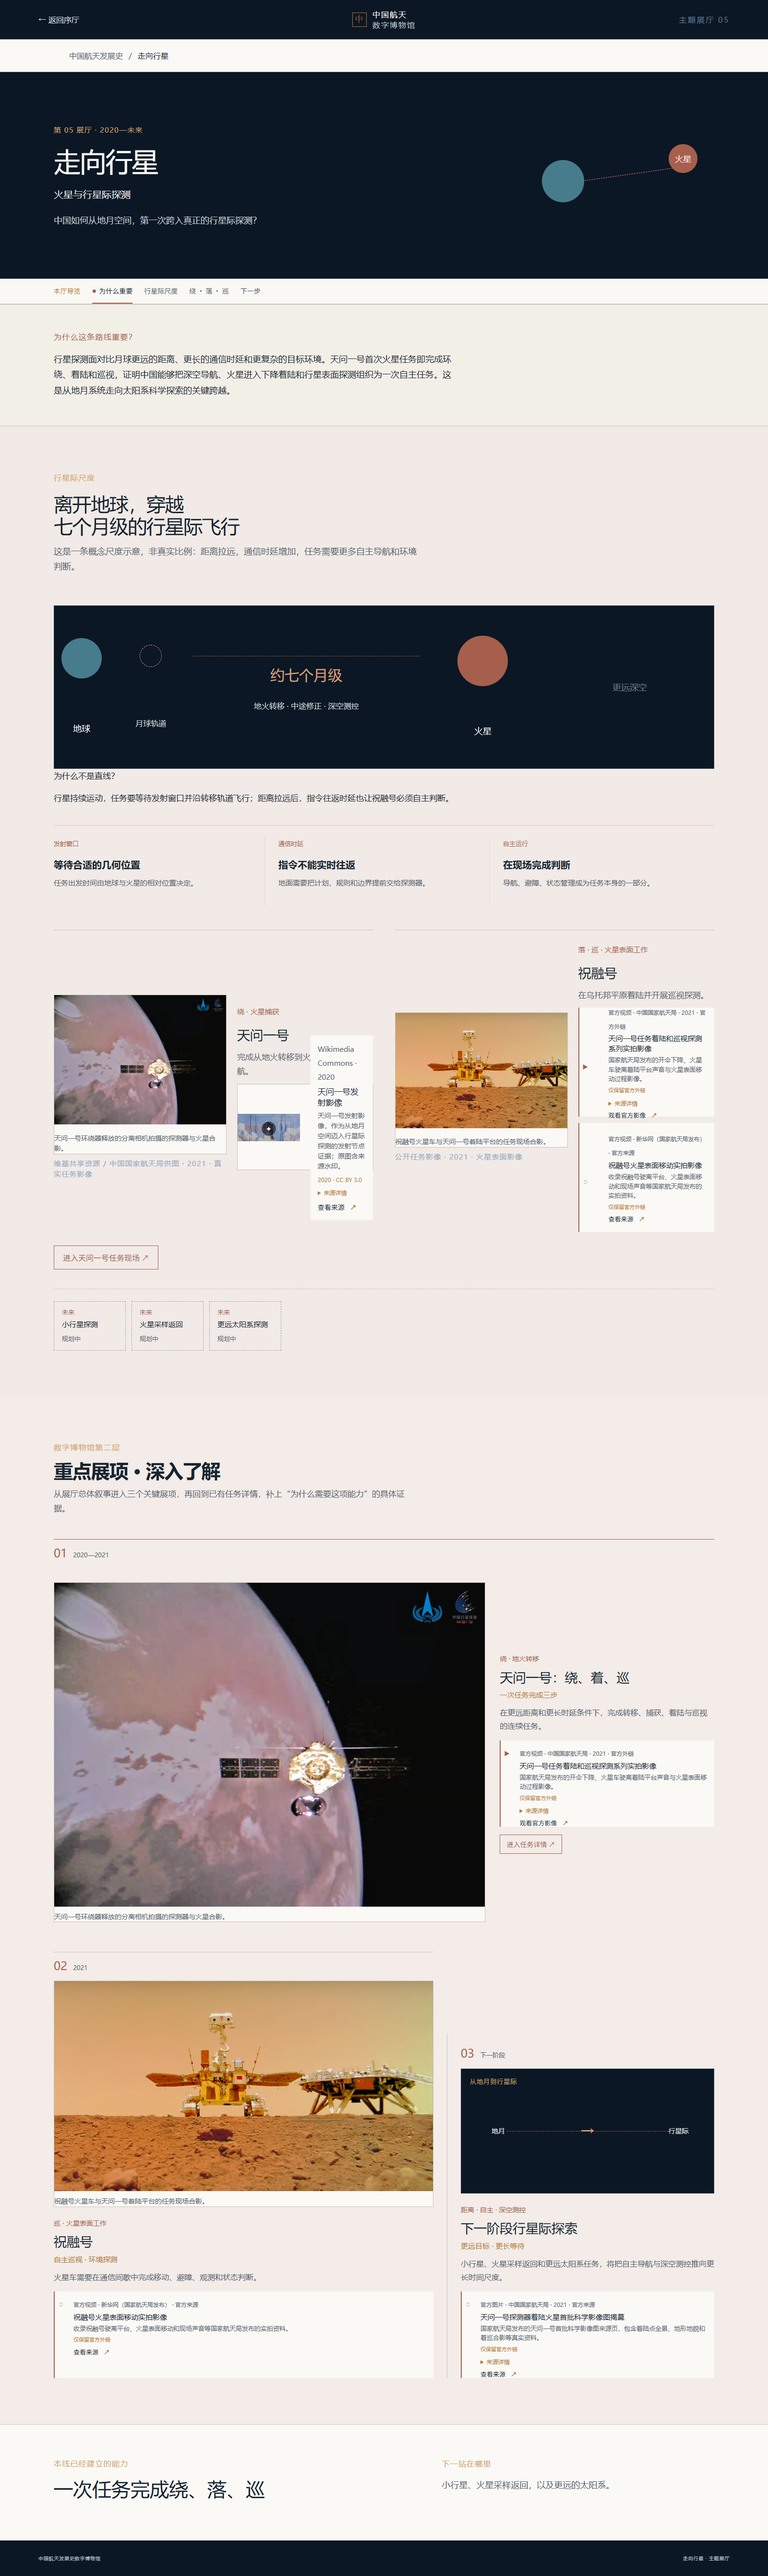
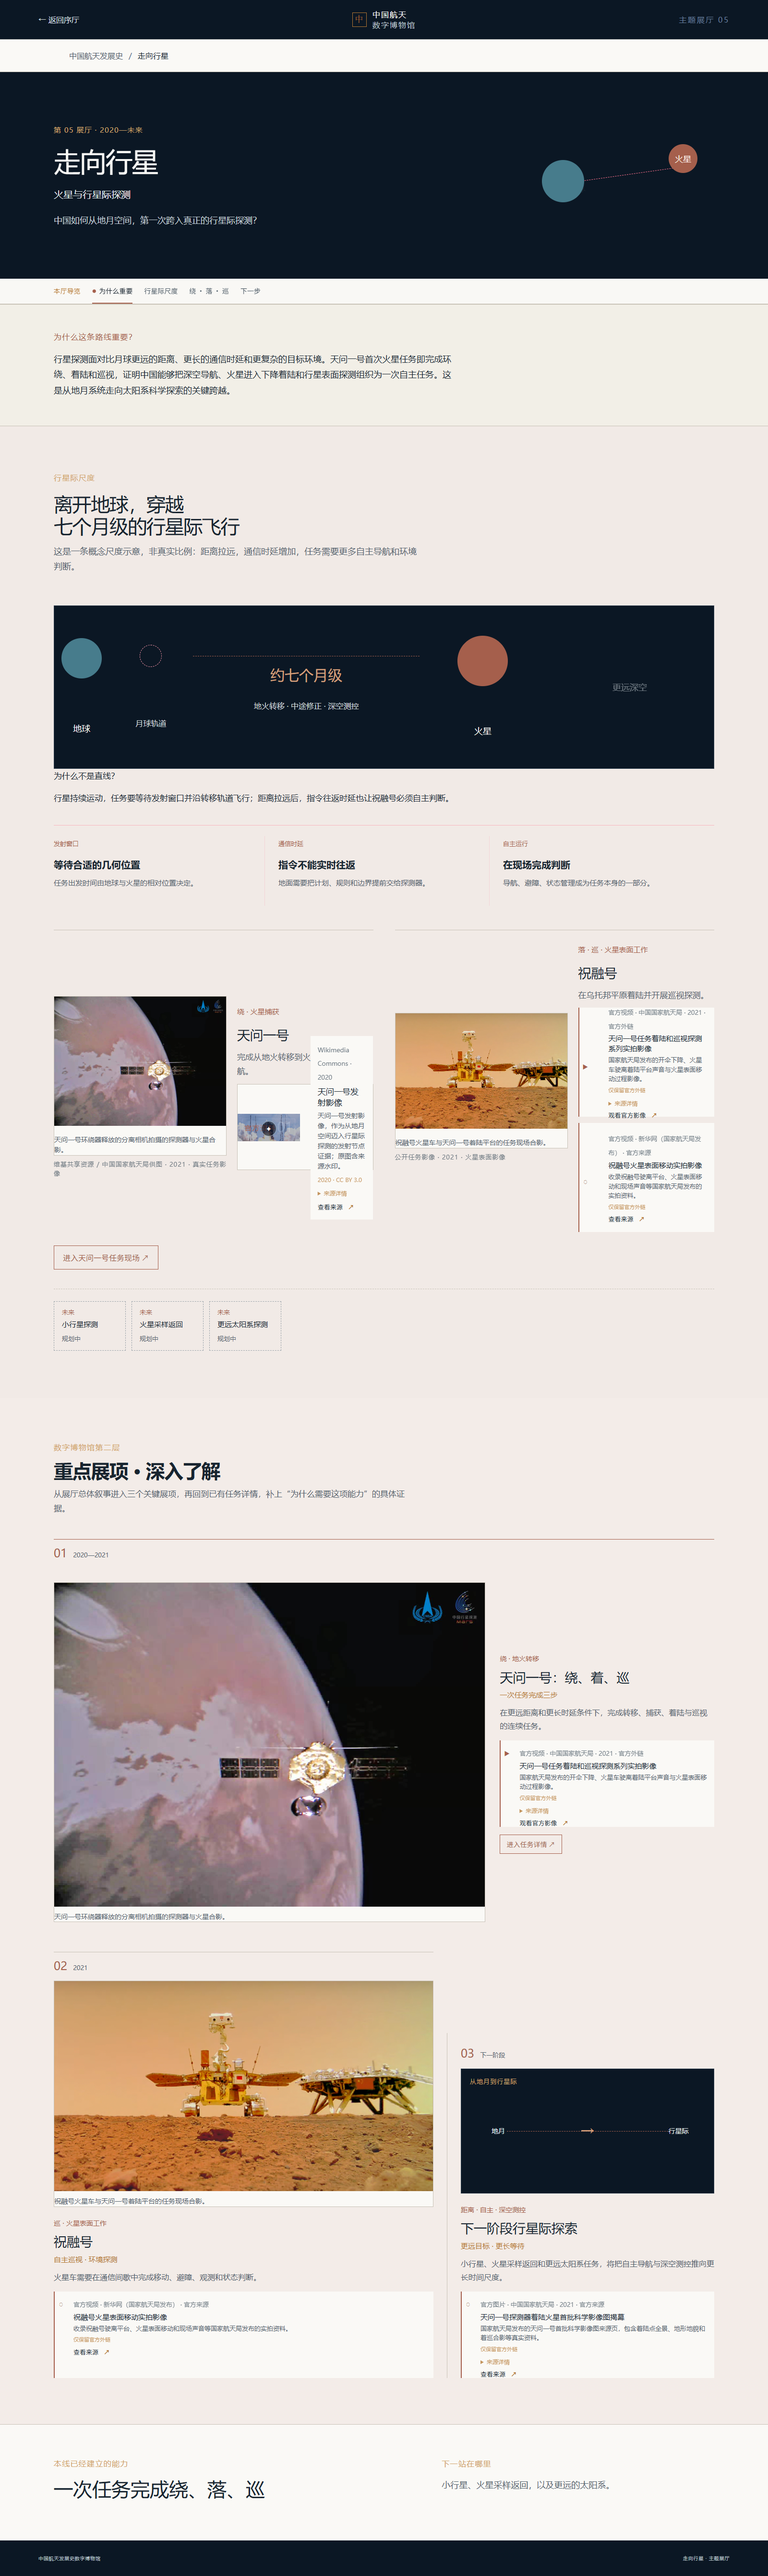
V5.0-RC3.2-PC：视觉与展陈终审

Changed region(s): [[0.5312, 0.405, 0.75, 0.4673], [0.0625, 0.405, 0.2812, 0.4673]]

diff --git a/src/e3.css b/src/e3.css
@@ -328,9 +328,9 @@ button:focus-visible, a:focus-visible { outline-color: var(--museum-bronze); }
 .deep-dive-item .asset-media figcaption { position: static; padding: 10px 0 0; background: none; color: var(--museum-ink-soft); font-size: 14px; line-height: 1.55; }
 .deep-dive-item .deep-dive-schematic { min-height: 240px; }
 .deep-dive-item .deep-dive-copy > p { max-width: 45em; }
-.story-page .asset-media figcaption { position: static; padding: 10px 0 0; background: none; color: var(--museum-ink-soft); font-size: 14px; line-height: 1.55; }
-.grand-story--launch .launch-support-copy h3 { color: var(--museum-ink); }
-.grand-story--launch .launch-support-copy p { color: var(--museum-ink-soft); }
+  .story-page .asset-media figcaption { position: static; padding: 10px 0 0; background: none; color: var(--museum-ink-soft); font-size: 14px; line-height: 1.55; }
+  .grand-story--launch .launch-support-copy h3 { color: var(--museum-ink); }
+  .grand-story--launch .launch-support-copy p { color: var(--museum-ink-soft); }
 
 /* 进入太空：小档案 → 中等能力 → 占据半幅的长征五号主展品。 */
 .deep-dive--layout-scale .deep-dive-items { grid-template-columns: repeat(12, minmax(0, 1fr)); gap: 34px 26px; align-items: start; }
@@ -532,4 +532,19 @@ button:focus-visible, a:focus-visible { outline-color: var(--museum-bronze); }
   .planetary-engineering-chain span { color: var(--hall-planetary); font: 13px 'DM Mono'; }
   .planetary-engineering-chain strong { display: block; margin-top: 13px; color: var(--museum-ink); font-size: 20px; font-weight: 600; }
   .planetary-engineering-chain p { margin: 9px 0 0; color: var(--museum-ink-soft); font-size: 15px; line-height: 1.7; }
+}
+
+/* V5.0-RC3.2-PC：视觉终审，降低来源噪声并收紧桌面阅读节奏。 */
+@media (min-width: 801px) {
+  .story-page .story-heading { margin-bottom: 4px; }
+  .story-page .story-media-meta { color: var(--museum-ink-soft); font-size: 13px; opacity: .82; }
+  .story-page .story-media .official-media-copy > span { font-size: 13px; opacity: .82; }
+  .story-page .story-media .official-media-status { opacity: .78; }
+  .story-page .story-media .official-media-details { opacity: .78; }
+  .story-page .story-media .official-media-copy a { font-size: 13px; }
+  .satellite-use-cases article, .launch-capability-chain article, .human-people-strip > div, .planetary-engineering-chain article { transition: background-color .2s ease, border-color .2s ease; }
+  .satellite-use-cases article:hover, .satellite-use-cases article:focus-within { background: rgba(255,255,255,.34); }
+  .launch-capability-chain article:hover, .human-people-strip > div:hover, .planetary-engineering-chain article:hover { background: rgba(255,255,255,.24); }
+  .satellite-use-cases article:focus-within, .launch-capability-chain article:focus-within, .human-people-strip > div:focus-within, .planetary-engineering-chain article:focus-within { outline: 2px solid var(--museum-bronze); outline-offset: 4px; }
+  .lunar-sample-note a { opacity: .8; }
 }

diff --git a/src/components/GrandHallStories/HumanSpaceflightStory.jsx b/src/components/GrandHallStories/HumanSpaceflightStory.jsx
@@ -13,7 +13,7 @@ export default function HumanSpaceflightStory({ hall, nodes, missions, onOpenMis
         <div className="story-hero-copy title-safe-area"><span className="section-kicker">第 {hall.index} 展厅 · {hall.period}</span><h1>{hall.name}</h1><p className="story-subtitle">{hall.subtitle}</p><p className="story-question">中国如何从无人验证，走到长期有人驻留？</p></div>
         <div className="story-hero-visual human-hero-visual" aria-label="飞船与空间站对接示意"><span>飞船</span><i>对接</i><b>空间站</b></div>
       </header>
-      <StoryTour items={[{ id: 'story-why', label: '为什么重要' }, { id: 'human-core', label: '三个人的阶段' }, { id: 'deep-dive', label: '重点展项' }, { id: 'story-next', label: '下一步' }]} />
+      <StoryTour items={[{ id: 'story-why', label: '为什么重要' }, { id: 'human-core', label: '三章路线' }, { id: 'deep-dive', label: '重点展项' }, { id: 'story-next', label: '下一步' }]} />
       <section className="story-why" id="story-why"><span className="section-kicker">为什么这条路线重要？</span><p>{hall.hallWhyItMatters}</p></section>
       <section className="grand-story grand-story--human" id="human-core">
         <div className="story-heading"><span className="section-kicker">载人航天三章</span><h2>从把人送上去，<br />到让人在轨道上工作</h2><p>载人航天的进步，体现在任务持续时间、空间活动复杂度和轨道生活能力的连续增加。</p></div>

diff --git a/docs/iterations/v5.0-rc3.2-pc.md b/docs/iterations/v5.0-rc3.2-pc.md
@@ -1,0 +1,26 @@
+# V5.0-RC3.2-PC 视觉与展陈终审记录
+
+## 本轮定位
+
+本轮承接本地 RC3.1 提交 `e65b5e0`，只维护 `1600×900` PC 桌面端。移动端、平板端和响应式重构冻结；本轮不修改启动器、不新增媒体、不创建正式 `v5.0` Tag。
+
+## 完成本轮
+
+- 复核首页入馆导言、时间线主次层级、技术底座关系和五厅新增信息块在长页面中的垂直节奏。
+- 将来源行、来源详情、授权状态和外链动作保持在低视觉权重；来源详情继续默认折叠，媒体展品保持为主体。
+- 修正新增卫星、运载、载人、探月、行星信息块在浅色正文中的文字对比度。
+- 为新增信息块增加克制的 hover/focus 状态；保留既有火箭参数、StoryTour、主线 SVG 键盘入口和外链 `noreferrer`。
+- 载人展厅导览从“三个人的阶段”修正为“三章路线”，让人物信息回到能力叙事的上下文中。
+
+## 验收
+
+- `npm.cmd run build`：通过；仅保留既有 SpaceScene 大 chunk 警告。
+- `npm.cmd run screenshots`：通过；只生成六张 `1600×900` PC fullPage PNG：`01-home.png` 至 `06-planetary.png`。
+- 六张截图已人工读取：没有发现新增遮挡、文字被浅底吞没、横向溢出、媒体比例异常或来源层级抢主体问题。
+- 使用本机 Microsoft Edge 复核首页、五个主题展厅和旧任务页；生产截图脚本同时检查图片、同源 404、运行时错误、console error、链接命名和桌面横向溢出。
+
+## 遗留
+
+- Three.js 场景 chunk 仍有既有构建警告，留待独立性能阶段。
+- 历史素材授权状态继续沿用来源登记；未扩大本地素材范围。
+

diff --git a/README.md b/README.md
@@ -4,7 +4,7 @@
 
 ## 当前版本
 
-V5.0-RC3.1-PC，已完成首页序厅与五厅策展深化；本轮只维护并验收 `1600×900` 桌面端，不修改移动端和平板端。
+V5.0-RC3.2-PC，已完成首页序厅、五厅策展深化与桌面视觉终审；本轮只维护并验收 `1600×900` 桌面端，不修改移动端和平板端。
 
 ## 在线参观
 
@@ -112,6 +112,8 @@ node_modules/           npm 依赖安装目录，不纳入 Git
 - [V5.0-RC2-PC 中文开发记录](docs/prompts/v5.0-rc2-pc.md)
 - [V5.0-RC3.1-PC 迭代记录](docs/iterations/v5.0-rc3.1-pc.md)
 - [V5.0-RC3.1-PC 中文开发记录](docs/prompts/v5.0-rc3.1-pc.md)
+- [V5.0-RC3.2-PC 迭代记录](docs/iterations/v5.0-rc3.2-pc.md)
+- [V5.0-RC3.2-PC 中文开发记录](docs/prompts/v5.0-rc3.2-pc.md)
 - [AI 辅助开发总日志](AI_DEVELOPMENT_LOG.md)
 - [更新日志](CHANGELOG.md)
 

diff --git a/AI_DEVELOPMENT_LOG.md b/AI_DEVELOPMENT_LOG.md
@@ -8,6 +8,12 @@
 - 使用中国载人航天工程官网、中国国家航天局和北斗官网资料复核新增事实；未下载新媒体、程序、依赖或远程脚本。
 - `npm.cmd run build`、`npm.cmd run screenshots` 和 Edge 路由/资源/交互 QA 通过；六张截图仍固定输出到 `docs/screenshots/review/latest/`，移动端冻结。
 
+## V5.0-RC3.2-PC
+
+- 在 RC3.1 内容深化后进行桌面视觉终审，只调整字体、间距、信息对比度、来源权重和轻量 focus/hover 状态。
+- 没有新增图片、视频、程序或依赖；移动端、平板端和启动器保持不变。
+- 完成 `npm.cmd run build`、六张 PC 截图和 Edge 页面验收，保留既有 Three.js 大 chunk 警告。
+
 ## V5.0-RC2-PC
 
 ### 本轮范围

diff --git a/CHANGELOG.md b/CHANGELOG.md
@@ -1,5 +1,11 @@
 # 更新日志
 
+## V5.0-RC3.2-PC
+
+- 完成首页与五厅的桌面视觉终审：收紧新增信息块的间距与字体层级，降低来源/授权文字噪声，并为新增内容补充克制的 hover/focus 状态。
+- 修正浅色正文中的信息对比度，载人导览改为“三章路线”；保留五厅独立叙事、既有媒体比例和移动端冻结范围。
+- `npm.cmd run build`、`npm.cmd run screenshots` 与 PC 浏览器验收通过；截图仍只覆盖六张 `1600×900` fullPage PNG。
+
 ## V5.0-RC3.1-PC
 
 - 增加首页入馆导言，修正五大发展主线年份轴，按数据标记区分关键时刻的主次，并把共同技术底座改为能力与支撑关系的展陈表达。

diff --git a/docs/prompts/v5.0-rc3.2-pc.md b/docs/prompts/v5.0-rc3.2-pc.md
@@ -1,0 +1,8 @@
+# V5.0-RC3.2-PC 中文开发记录
+
+本轮目标：在 RC3.1 内容与策展深化基础上完成 `1600×900` PC 桌面端视觉终审。
+
+约束：不修改移动端、平板端、响应式结构和纯 CMD 启动器；不新增媒体、依赖、程序或远程内容；不创建正式 `v5.0` Tag。
+
+工作范围：复核六张 PC 长截图，收紧新增信息块的字体与垂直间距，降低来源/授权文字的视觉权重，修正浅色正文中的对比度，并为新增内容保留克制的 hover/focus 状态。完成构建、截图脚本、Edge 路由、资源、console、同源 404、broken image、横向 overflow 和关键交互验收。
+
